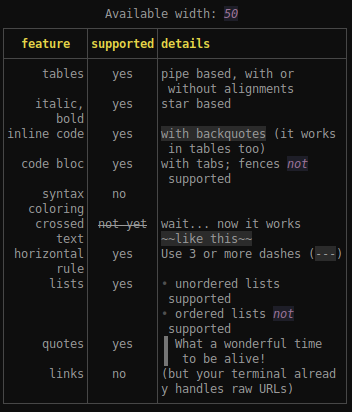
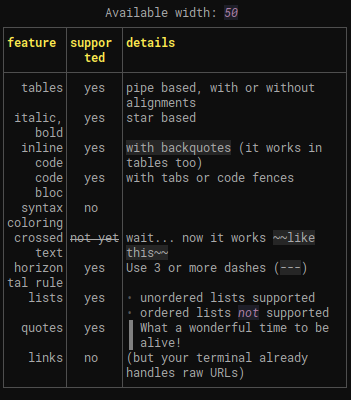
hard wrapping on space may remove the space

Changed region(s): [[0.0, 0.0, 0.9972, 0.99], [0.6268, 0.0, 0.6838, 0.06], [0.8547, 0.66, 0.8832, 0.69]]

diff --git a/src/wrap.rs b/src/wrap.rs
@@ -46,7 +46,7 @@ pub fn hard_wrap_composite<'s>(
     };
     let mut ll = match src_composite.composite.style {
         CompositeStyle::ListItem => 2, // space of the bullet
-        CompositeStyle::Quote => 2,    // space of the bullet
+        CompositeStyle::Quote => 2,    // space of the quote mark
         _ => 0,
     };
     let mut ignored_cut_back: Option<usize> = None;
@@ -76,12 +76,18 @@ pub fn hard_wrap_composite<'s>(
                 last_space = Some(idx);
             }
             if ll >= width {
+                // we must cut
                 let mut cut = idx;
+                let mut loss = 0;
                 ignored_cut_back = None;
                 if idx + char_len < s.len() {
                     if let Some(ls) = last_space {
                         if ls + max_cut_back >= idx {
+                            // the last space isn't too far, we'll cut there
                             cut = ls;
+                            if idx > ls {
+                                loss = 1;
+                            }
                         } else {
                             ignored_cut_back = Some(idx - ls);
                         }
@@ -92,8 +98,8 @@ pub fn hard_wrap_composite<'s>(
                 composites.push(dst_composite);
                 dst_composite = new_dst_composite;
                 last_space = None;
-                c_start = cut; // + char_len;
-                ll = idx - cut;
+                c_start = cut + loss; // + char_len;
+                ll = idx - cut - loss;
                 if dst_composite.composite.is_quote() {
                     ll += 2;
                 }
@@ -109,6 +115,7 @@ pub fn hard_wrap_composite<'s>(
     }
     if dst_composite.visible_length > 0 {
         // now we try to see if we can move back the cut to the last space
+        // and we remove that space
         if let Some(diff) = ignored_cut_back {
             if diff + dst_composite.visible_length < width {
                 let tail = composites
@@ -198,8 +205,10 @@ mod wrap_tests {
 
     /// check line lenghts are what is expected
     fn check_line_lengths(skin: &MadSkin, src: &str, width: usize, lenghts: Vec<usize>) {
+        println!("input text:\n{}", &src);
         let text = skin.text(src, Some(width));
         assert_eq!(text.lines.len(), lenghts.len(), "same number of lines");
+        println!("wrapped text:\n{}", &text);
         for i in 0..lenghts.len() {
             assert_eq!(
                 visible_fmt_line_length(skin, &text.lines[i]),
@@ -221,10 +230,20 @@ mod wrap_tests {
                    And the text goes on with a list:\n\
                    * short item\n\
                    * a *somewhat longer item* (with a part in **bold**)";
-        println!("input text:\n{}", &src);
         for width in 3..50 {
             check_no_overflow(skin, &src, width);
         }
-        check_line_lengths(skin, &src, 24, vec![19, 19, 7, 20, 13, 12, 24, 22]);
+        //check_line_lengths(skin, &src, 25, vec![19, 19, 7, 20, 13, 12, 24, 22]);
+        check_line_lengths(skin, &src, 25, vec![19, 25, 20, 12, 12, 24, 22]);
+    }
+
+    #[test]
+    fn check_space_removing() {
+        let skin = crate::get_default_skin();
+        let src = FmtComposite::from(Composite::from_inline("syntax coloring"), &skin);
+        println!("input:\n{:?}", &src);
+        let wrapped = hard_wrap_composite(&src, 8);
+        println!("wrapped: {:?}", &wrapped);
+        assert_eq!(wrapped.len(), 2);
     }
 }
